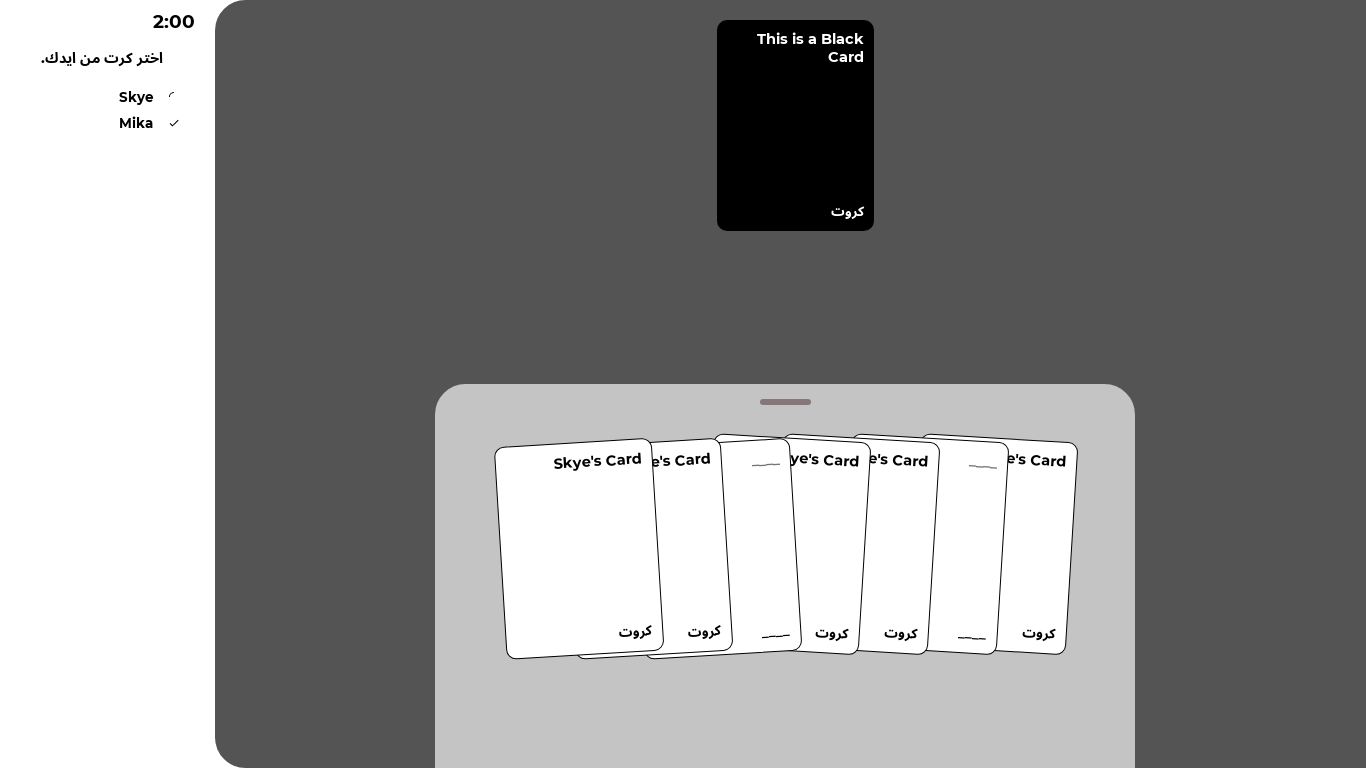
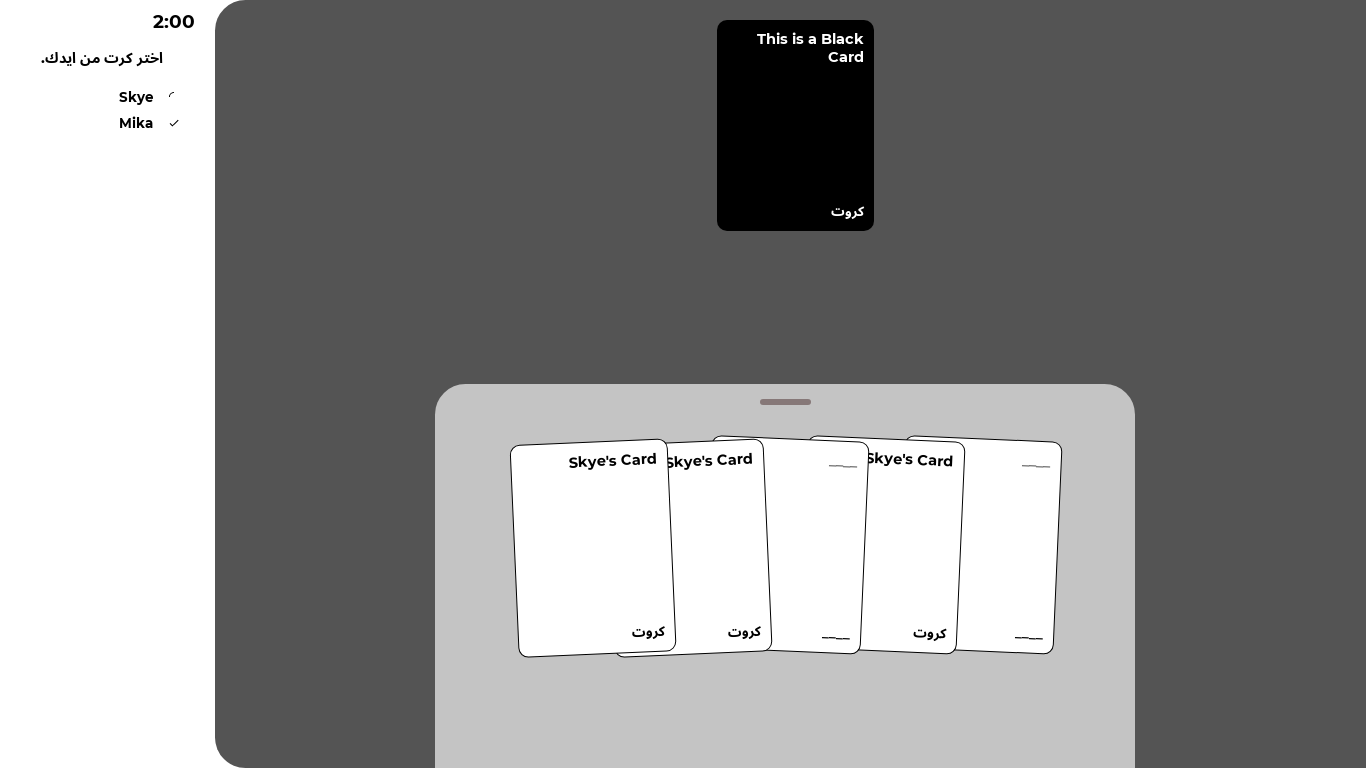
trying to make a test pass

Changed region(s): [[0.3382, 0.5625, 0.7994, 0.875]]

diff --git a/src/mocks/io.js b/src/mocks/io.js
@@ -220,9 +220,7 @@ function startMatch()
     hand: (params.get('mock') === 'blank') ?
       [ { key: Math.random(), type: 'white', blank: true } ] :
       [
-        { key: Math.random(), type: 'white', content: 'Skye\'s Card' },
         { key: Math.random(), type: 'white', blank: true },
-        { key: Math.random(), type: 'white', content: 'Skye\'s Card' },
         { key: Math.random(), type: 'white', content: 'Skye\'s Card' },
         { key: Math.random(), type: 'white', blank: true },
         { key: Math.random(), type: 'white', content: 'Skye\'s Card' },
